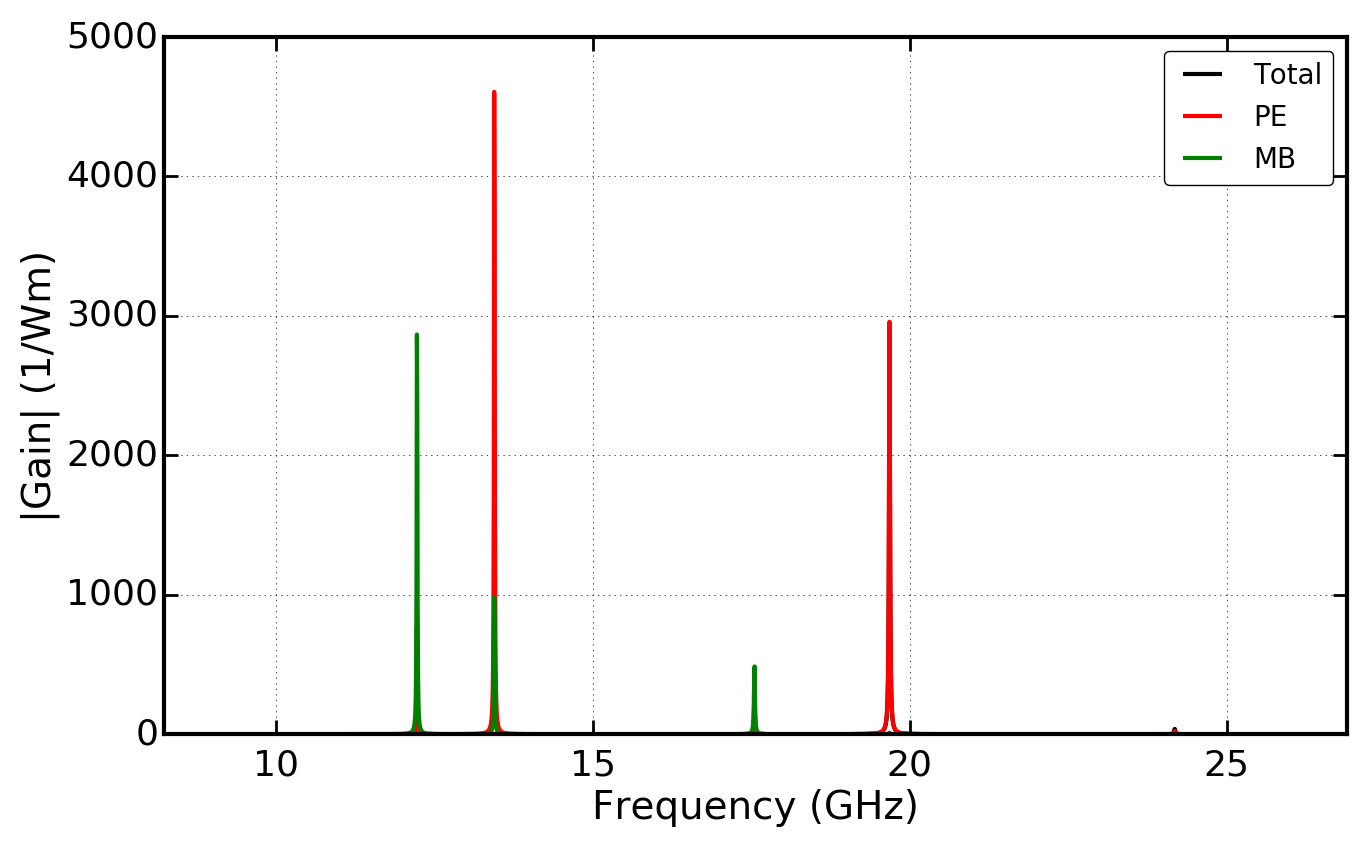
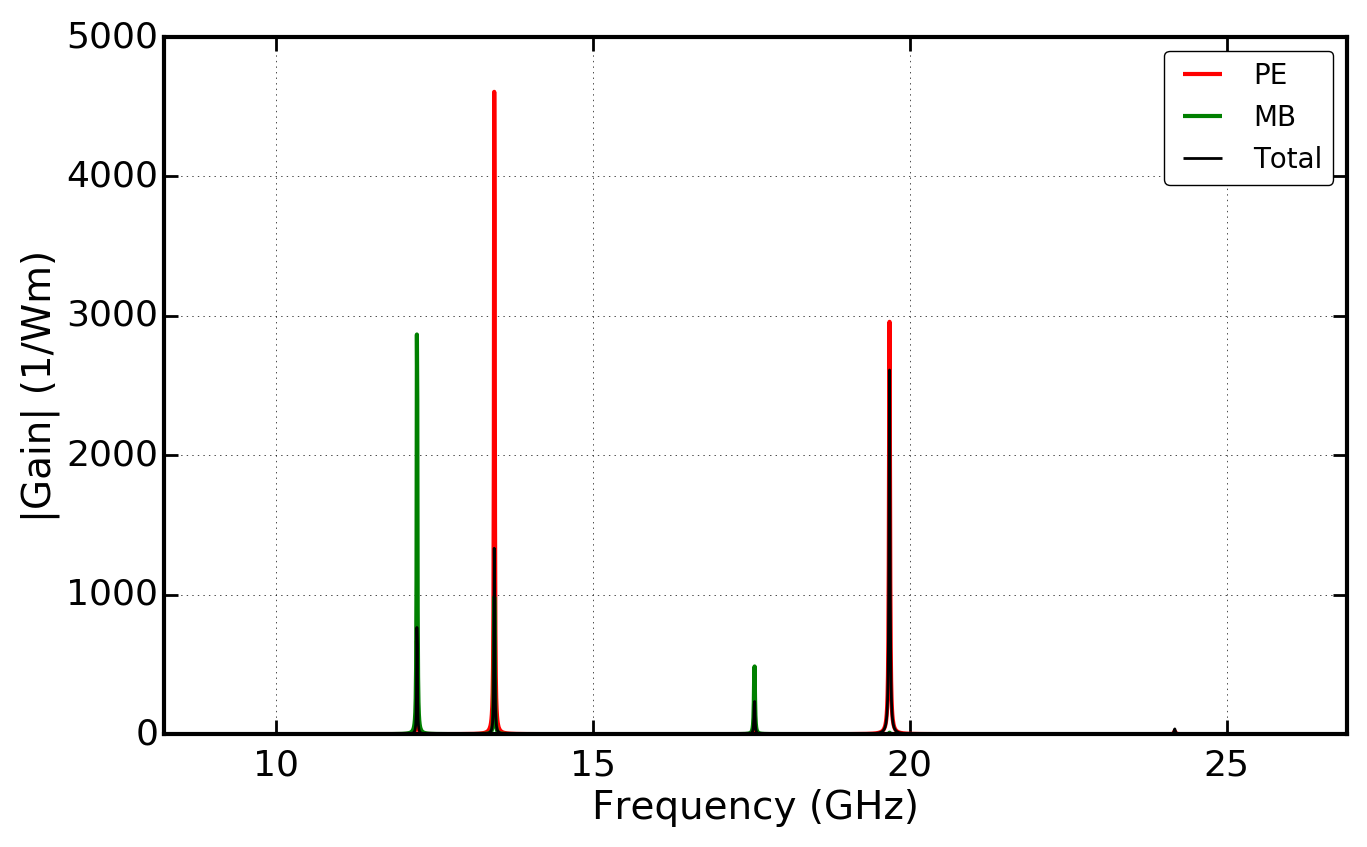
Adding another figure to docs.

diff --git a/backend/plotting.py b/backend/plotting.py
@@ -194,9 +194,9 @@ def gain_spectra(sim_AC, SBS_gain, SBS_gain_PE, SBS_gain_MB, linewidth_Hz, k_AC,
             interp_spectrum_MB = np.interp(interp_grid, freq_list_GHz, gain_list_MB)
             interp_values_MB += interp_spectrum_MB
     else: raise NotImplementedError("Spectrum plotting for limited AC modes not implemented.")
-    plt.plot(interp_grid, np.abs(interp_values), 'k', linewidth=3, label="Total")
-    plt.plot(interp_grid, np.abs(interp_values_PE), 'r', linewidth=2, label="PE")
-    plt.plot(interp_grid, np.abs(interp_values_MB), 'g', linewidth=2, label="MB")
+    plt.plot(interp_grid, np.abs(interp_values_PE), 'r', linewidth=3, label="PE")
+    plt.plot(interp_grid, np.abs(interp_values_MB), 'g', linewidth=3, label="MB")
+    plt.plot(interp_grid, np.abs(interp_values), 'k', linewidth=2, label="Total")
     plt.legend(loc=0)
     if freq_min and freq_max:
         plt.xlim(freq_min,freq_max)

diff --git a/tutorials/simo-tut_02-gain_spectra-npsave.py b/tutorials/simo-tut_02-gain_spectra-npsave.py
@@ -134,12 +134,11 @@ plotting.gain_spectra(sim_AC, SBS_gain, SBS_gain_PE, SBS_gain_MB, linewidth_Hz, 
     EM_ival_pump, EM_ival_Stokes, AC_ival, freq_min=freq_min, freq_max=freq_max, 
     prefix_str=prefix_str)
 # Zoomed in version
-freq_min = 11  # GHz
-freq_max = 15  # GHz
+freq_min = 12  # GHz
+freq_max = 14  # GHz
 plotting.gain_spectra(sim_AC, SBS_gain, SBS_gain_PE, SBS_gain_MB, linewidth_Hz, k_AC,
     EM_ival_pump, EM_ival_Stokes, AC_ival, freq_min=freq_min, freq_max=freq_max, 
     prefix_str=prefix_str, suffix_str='_zoom')
-
 
 end = time.time()
 print("\n Simulation time (sec.)", (end - start))

diff --git a/docs/source/tutorial.rst b/docs/source/tutorial.rst
@@ -178,8 +178,10 @@ Elements to note:
 
 .. figure:: ../../tutorials/tut_02-gain_spectra-MB_PE_comps.png
    :scale: 70 %
-
    Gain spectra showing gain due to electrostriction, gain due to radiation pressure, and total gain.
+.. figure:: ../../tutorials/tut_02-gain_spectra-MB_PE_comps_zoom.png
+   :scale: 70 %
+   Zoomed in gain spectra.
 
 
 Investigating Dispersion
